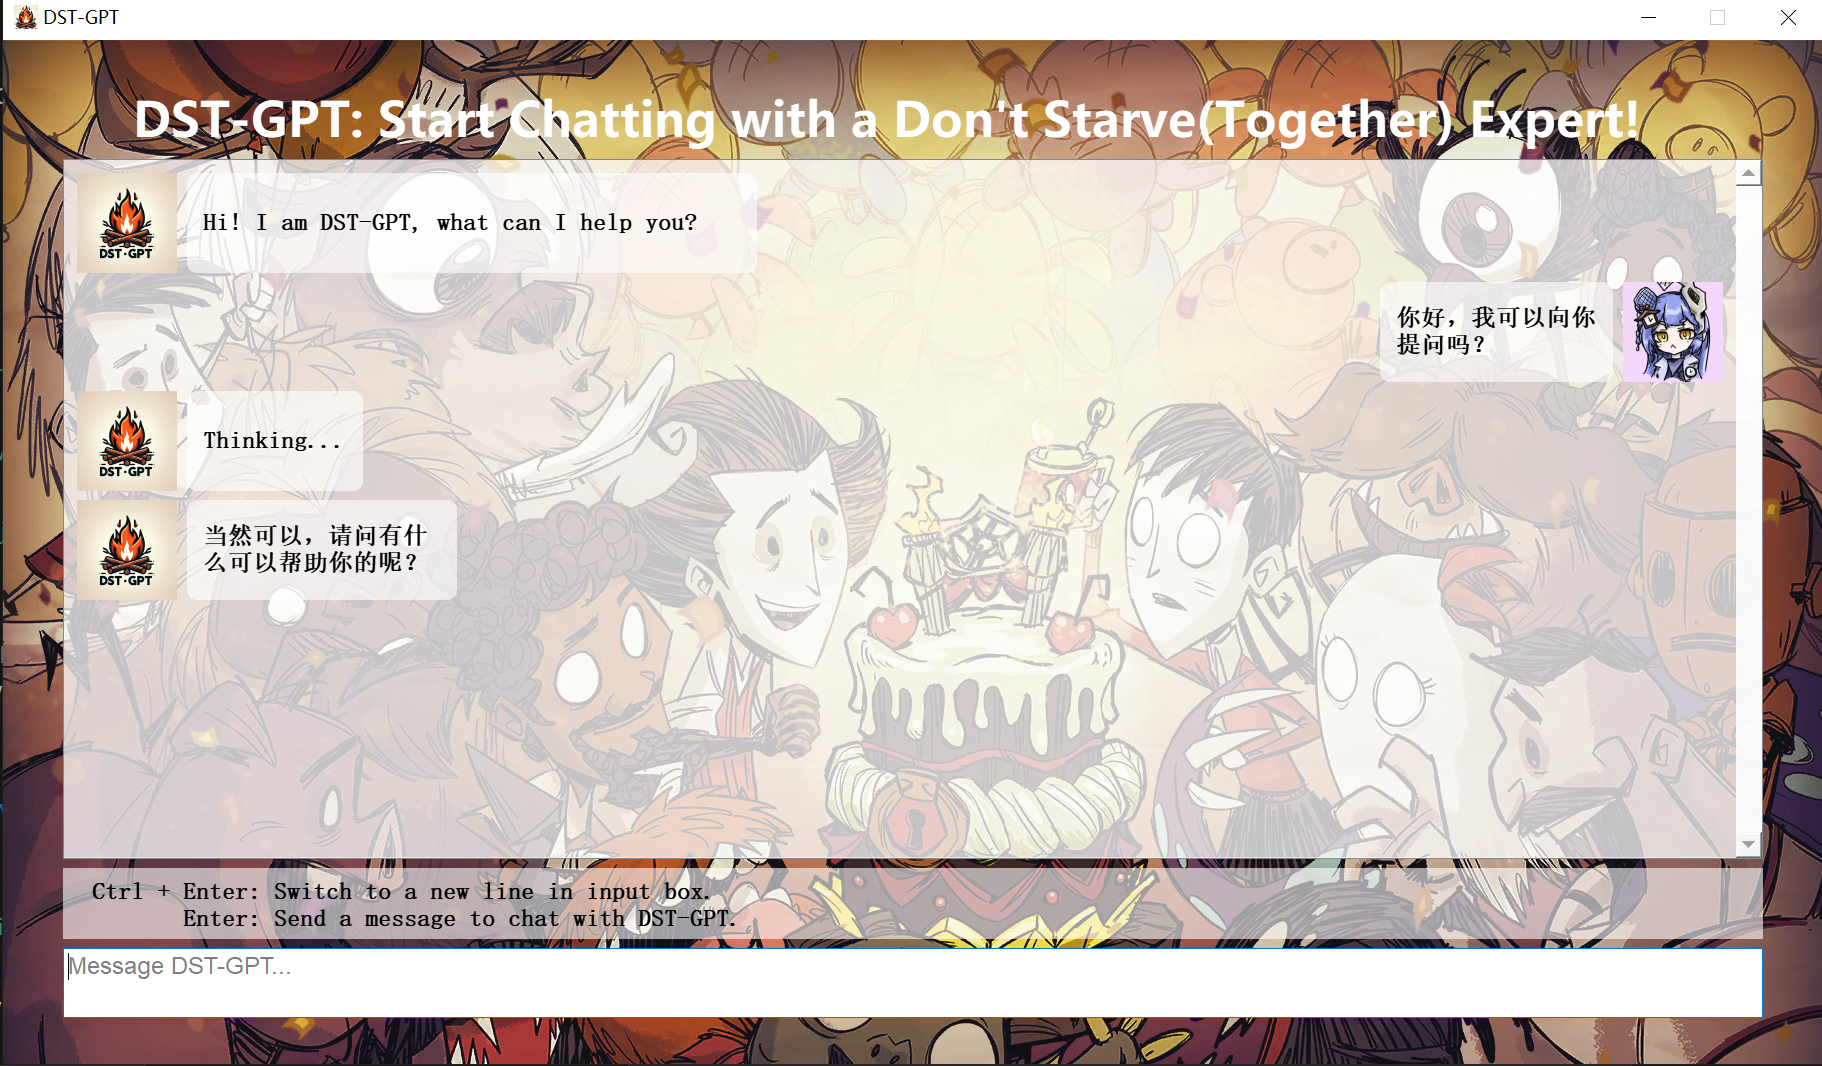
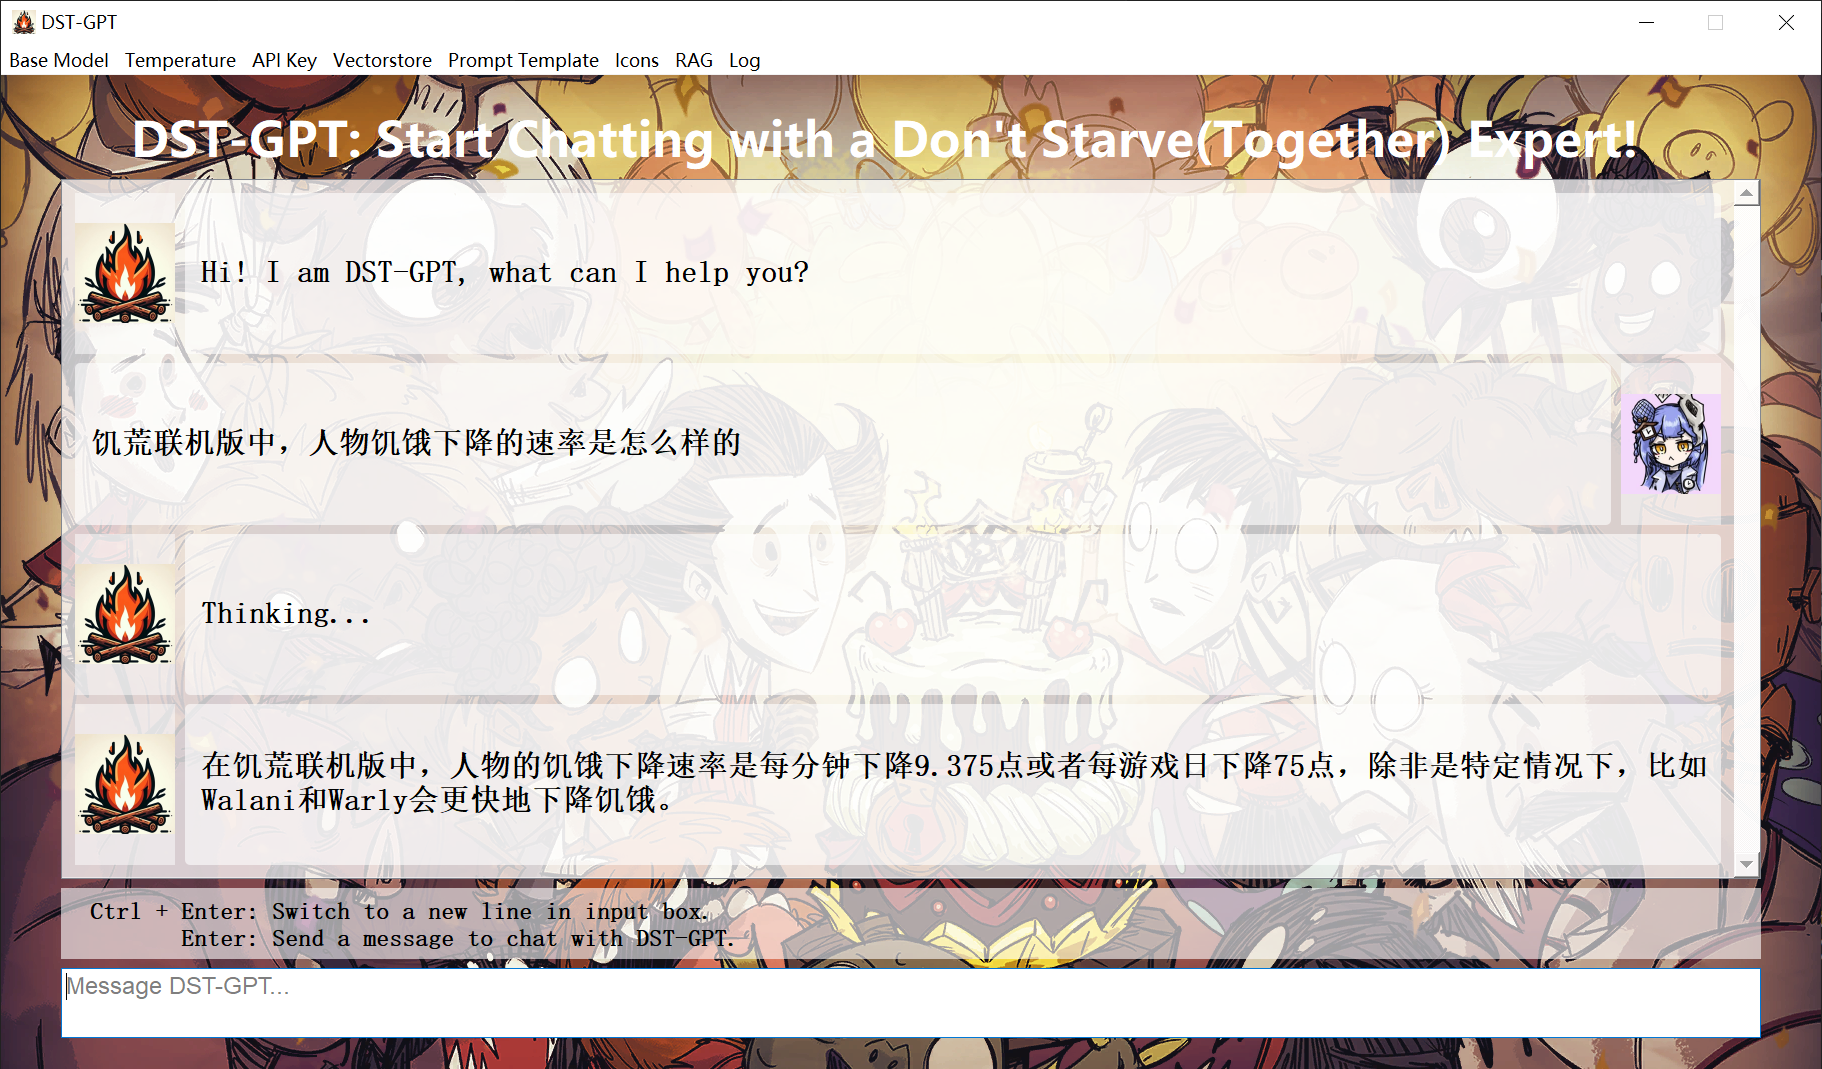
update md

diff --git a/README.md b/README.md
@@ -5,7 +5,7 @@
 
 [![Github](https://img.shields.io/badge/GitHub-DST&#8209;GPT-000000?logo=github)](https://github.com/Bili-Sakura/DST-GPT)
 [![Bilibili](https://img.shields.io/badge/Bilibili-DST&#8209;GPT-00A1D6?logo=bilibili&logoColor=white)](https://www.bilibili.com/)
-[![Huggingface](https://img.shields.io/badge/Hugging%20Face-DST&#8209;GPT-FF9900?logo=hugging%20face&logoColor=white)](https://huggingface.co/)
+[![Huggingface](https://img.shields.io/badge/Hugging%20Face-Waiting...-FF9900?logo=hugging%20face&logoColor=white)](https://huggingface.co/)
 
 ## Introduction
 
@@ -101,8 +101,8 @@ Wait for assessment...
 
 ## Data
 
-In this repo, we share the corpus used in DST-GPT, be it `refined_data.json`:
-Raw data is crawled from Wiki Fandom on DST webpages with little preprocess. Refined data is restructed from raw data.
+In this repo, we share the corpus used in DST-GPT, be it `refined_data.json`,`chinese_dst.txt`,`chinese_ds.txt`:
+Raw data is crawled from Wiki Fandom on DST webpages with little preprocess. `Refined_data.json` is restructed from raw data.
 
 ```json
 ./data/refined_data.json
@@ -131,6 +131,17 @@ Raw data is crawled from Wiki Fandom on DST webpages with little preprocess. Ref
 },...
 ]
 ```
+
+`chinese_dst.txt` and `chinese_ds.txt` are directly copied from DST/DS source files (originally in .po) which contain the translated strings for all the text seen in the game. Here is an example of element in the txt file.
+```txt
+#. STRINGS.NAMES.DEERCLOPS
+msgctxt "STRINGS.NAMES.DEERCLOPS"
+msgid "Deerclops"
+msgstr "独眼巨鹿"
+
+#. STRINGS.NAMES.xxx
+...
+```
 ## Auto Log
 
 **The chatlog and meta infomation are automatically saved in `./log/xx.txt`**
@@ -138,7 +149,7 @@ Raw data is crawled from Wiki Fandom on DST webpages with little preprocess. Ref
 ```txt
 - Start Time: 2024-02-14 15:56:02
 - Message Counts: 3
-- Knowledge Sources: data\sample_data.json, data\chinese_sample.txt, data\sample_data.json, data\sample_data.json
+- Knowledge Sources: data\sample_data.json, data\chinese_sample.txt
 - Chat Tokens: 1109
 - Cost: 0.0033360000000000004
 - End Time: 2024-02-14 15:56:51
@@ -154,48 +165,70 @@ DST-GPT: Hello! How can I assist you today?
 
 **1. Base Model**
 
-![GUI SetBaseModels](./assets/GUI_SetBaseModels.png)
+Select the OpenAI foundation model for DST-GPT.
 
-**2. API Key**
+**2. Temperature**
 
-![GUI SetAPIKeys](./assets/GUI_SetAPIKeys.png)
+Set the temperature for the foundation model. The higher the more creative, the lower the more deterministic, ranging from [0,1].
 
-**3. Temperature**
+**3. API Key**
 
-![GUI SetTemperature](./assets/GUI_SetTemperature.png)
+Configure your open_api_key as well as open_base_url from widget.
 
 **4. Vectorstore**
 
-If you already have a Chroma vectorstore with a local file like `chroma.sqlite3`, you can place it in `./database/` to construct your own LLMs application.
+If you already have a Chroma vectorstore with a local file like `chroma.sqlite3`, you can place it in `./database/`(or your database directory) to construct your own LLMs application.
 
-**Configure vectorstore**
+**Initialize vectorstore**
 
-![GUI configureVectorstore](./assets/GUI_configureVectorstore.png)
+Create a `chroma.sqlite3` new If there is no existing on under the database directory.
 
 **Add corpus to vectorstore**
 
-![GUI addCorpusToVectorstore](./assets/GUI_addCorpusToVectorstore.png)
+You are able to add new data source(.json,.txt,.md,.py) into exisiting database. Large files can be time-cosuming, you should check the console log time to time, to see the veterization process.
 
 **Clear vectorstore**
 
-![GUI clearVectorstore](./assets/GUI_clearVectorstore.png)
+Delete the `chroma.sqlite3` from database directory.
 
-**5.Prompt Template**
+**5. Prompt Template**
 
-![GUI setPromptTemplate](./assets/GUI_setPromptTemplate)
+Prompt is the vital part for LLMs response. The default prompt used in DST-GPT is as follow:
 
-### Icons
+```python
+"""
+Answer the following question based on the provided knowledge: <knowledge>
+{context}
+</knowledge>
+Question: {input}
+"""
+```
+`{context}` and `{input}` are key parameter passed to llm. Users are allowed to self-define their prompt for better performance.
 
-Set your own Icons.
+![SetPrompt](./assets/GUI_SetPrompt.png)
 
-![GUI SetIcons](./assets/GUI_SetIcons.png)
+**6. Icons**
+
+Set your own Icons. Here are the default icons in assets.
+
 
 <div style="display: flex; flex-direction: column; align-items: left;">
     Model Icon 1<div style="text-align:left;"><img src="./assets/openai_white.png" alt="OpenAI" style="width: 50px; height: 50px;"></div>Model Icon 2
     <div style="text-align:left;"><img src="./assets/logo.jpg" alt="DST-GPT" style="width: 50px; height: 50px"></div>User Icon 1
-    <div style="text-align:left;"><img src="./assets/Avatar_User.jpg" alt="Sakura" style="width: 50px; height: 50px;"></div>User Icon 2
-    <div style="text-align:left;"><img src="./assets/Avatar_User.jpg" alt="Sakura" style="width: 50px; height: 50px"></div>
-</div>
+    <div style="text-align:left;"><img src="./assets/Avatar_User.jpg" alt="Sakura" style="width: 50px; height: 50px;">
+</div>  
+
+
+**7. RAG**  
+
+We provide three modes:
+- Enabled RAG: Give a response based on injected knowledge only.
+- Disabled RAG: Act the same as gpt model.
+- Both: Give the both answer from gpt base model and DST-GPT, this is useful for assessment.
+
+**8. Log**
+
+Whetehr to log your chat messages and meta data or not.
 
 ##  Released
 
@@ -203,9 +236,48 @@ DST-GPT is released in two ways: as an executable (.exe) file, providing a stand
 
 ### Executable Files
 
+```markdown
+# structure
+_internal
+    - python packages...
+assets
+    - pictures...
+data
+    - sample_data.json  
+    - chinese_sample.txt
+    - other data....
+database
+    - chroma.sqlite3
+log(optional)
+    - log_xxx.txt...
+.env
+
+```
+
+Download file click [here](). The executive files contains component as follow:
+
+**Core Components**
+
+`main.exe`(.exe)  
+`_internal`(folder)  
+`.env`  
+
+**Required Components:**   
+`chroma.sqlite3`(~1GB) 
+`configs.json`  
+`assets`(folder)  
+`sample_data.json`  
+`chinese_sample.txt`  
+
+Others:  
+`refined_data.json`(~50MB)  
+`chinese_ds.txt & chinese_dst.txt`(~20MB)
+
 ### Hugging Face
 
-[![Huggingface](https://img.shields.io/badge/Hugging%20Face-DST&#8209;GPT-FF9900?logo=hugging%20face&logoColor=white)](https://huggingface.co/)
+Waiting...
+
+>Hopefully, we may provide an API to call the DST-GPT chat function in the future.
 
 ## License
 DST-GPT is a chatbot intended for non-commercial use only, subject to the model License of OpenAI and the Terms of Use of the data generated by OpenAI. Please contact us if you find any potential violations. The code is released under the MIT License. The corpus data for DST-GPT is updating occasionally, if you want to subscribe the data, you can either email [bili_sakura@zju.edu.cn](mailto:bili_sakura@zju.edu.cn) or contact with me on Bilibili.
@@ -216,14 +288,13 @@ DST-GPT is a chatbot intended for non-commercial use only, subject to the model 
 
 ### Wait to do list
 
+**将模型以API形式封装，接入DST游戏模组**
 
 ### Bugs
 
 **消息气泡"Thiking..."需要被移除;气泡布局需要调整**
 
 ### Future
-
-**将模型以API形式封装，接入DST游戏模组**
 
 **重载信息显示函数，支持多模态输出**
 
